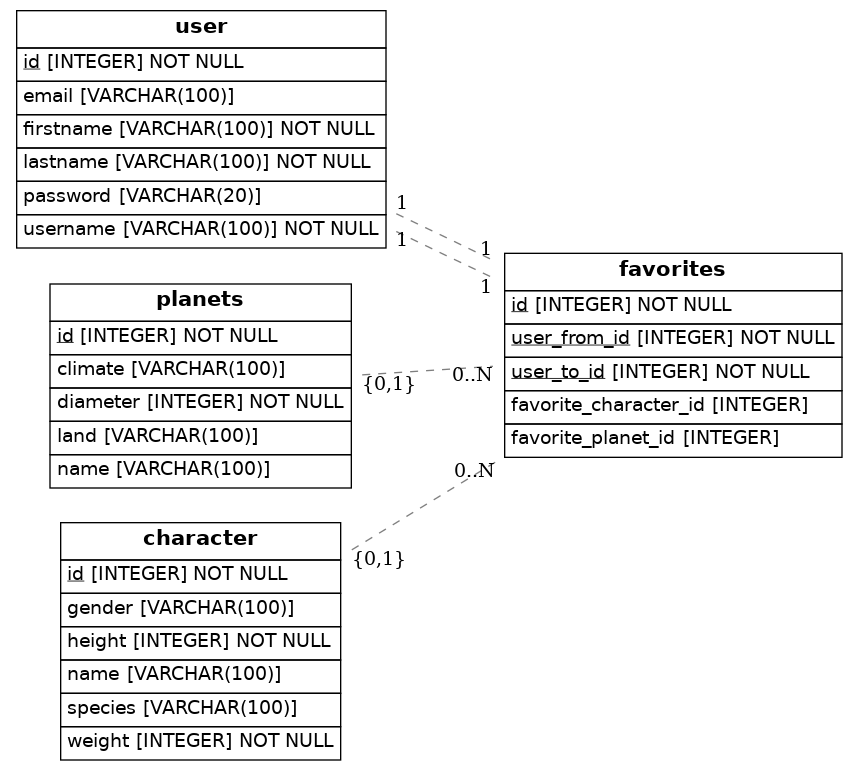
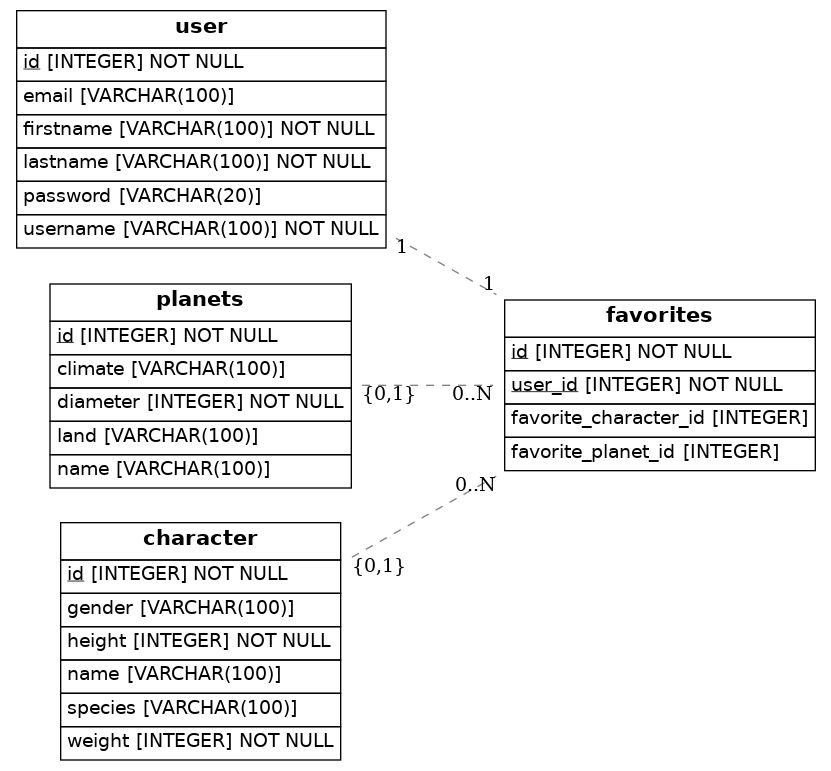
Finished project.2

Changed region(s): [[0.0, 0.0311, 0.9928, 0.6537], [0.0602, 0.6848, 0.4813, 0.9961], [0.0301, 0.3735, 0.5114, 0.6226]]

diff --git a/src/models.py b/src/models.py
@@ -44,8 +44,7 @@ class Favorites(Base):
     # Here we define columns for the table address.
     # Notice that each column is also a normal Python instance attribute.
     id = Column(Integer, primary_key=True)
-    user_from_id = Column(Integer, ForeignKey('user.id'), primary_key=True)
-    user_to_id = Column(Integer, ForeignKey('user.id'), primary_key=True)
+    user_id = Column(Integer, ForeignKey('user.id'), primary_key=True)
     user = relationship(User)
     favorite_planet_id = Column(Integer, ForeignKey('planets.id'))
     planets = relationship(Planets)
